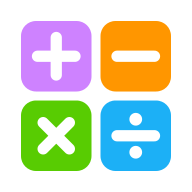
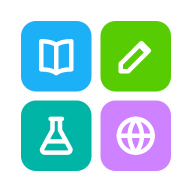
Estuda Criança: escolha da matéria, trilha padrão e fim da marca Tabuada
- Trilha mostra a matéria atual e o botão "Escolher matéria" (grade com progresso);
  a trilha padrão mistura todas as matérias
- Tabuadas saem do menu principal e viram atalho dentro de Matemática
- Desafios de todas as matérias primeiro; desafio de contas como parte de Matemática
- Nome, ícone, textos, relatório e backup passam a ser "Estuda Criança"; cache estuda-v1

diff --git a/js/app.js b/js/app.js
@@ -59,8 +59,8 @@ function topbar() {
 }
 
 function nav() {
-  const items = [['learn', 'home', 'Trilha'], ['table', 'book', 'Tabuada'], ['challenges', 'bolt', 'Desafios'], ['progress', 'chart', 'Progresso'], ['parents', 'lock', 'Pais']];
-  return `<nav class="nav"><div class="brand">Aprender Bia</div>${items.map(([id, ic, label]) => `<button class="${ui.tab === id ? 'on' : ''}" data-a="tab" data-v="${id}">${icon(ic, 26)}<span>${label}</span></button>`).join('')}</nav>`;
+  const items = [['learn', 'home', 'Trilha'], ['challenges', 'bolt', 'Desafios'], ['progress', 'chart', 'Progresso'], ['parents', 'lock', 'Pais']];
+  return `<nav class="nav"><div class="brand">Estuda Criança</div>${items.map(([id, ic, label]) => `<button class="${ui.tab === id || (id === 'learn' && ui.tab === 'table') ? 'on' : ''}" data-a="tab" data-v="${id}">${icon(ic, 26)}<span>${label}</span></button>`).join('')}</nav>`;
 }
 
 const TABS = { learn: renderLearn, table: renderTable, challenges: renderChallenges, progress: renderProgress, parents: renderParents };
@@ -72,24 +72,42 @@ function renderLearn() {
   const year = YEAR();
   const crs = C.course(year);
   if (!crs.subjects.some((s) => s.id === ui.subj)) ui.subj = 'all';
-  const chips = `<div class="subj-chips">
-    <button class="subj-chip c-green ${ui.subj === 'all' ? 'on' : ''}" data-a="subj" data-v="all">${icon('layers', 22)}<span>Tudo</span></button>
-    ${crs.subjects.map((s) => `<button class="subj-chip c-${s.color} ${ui.subj === s.id ? 'on' : ''}" data-a="subj" data-v="${s.id}">${subjGlyph(s, 22)}<span>${s.name}</span></button>`).join('')}
+  const cur = ui.subj === 'all' ? null : crs.subjects.find((s) => s.id === ui.subj);
+  const picker = `<div class="subj-current">
+    <span class="sic c-${cur ? cur.color : 'green'}">${cur ? subjGlyph(cur, 24) : icon('layers', 24)}</span>
+    <div class="grow"><small>Estudando agora · ${year}º ano</small><b>${cur ? cur.full : 'Trilha padrão'}</b></div>
+    <button class="btn white sm" data-a="pick-subj">Escolher matéria</button>
   </div>`;
-  if (ui.subj === 'all') {
+  if (!cur) {
     const done = crs.all.filter((n) => E.stars(n.id) >= 1).length;
-    return `${chips}
-      <div class="unit-banner c-green"><div><small>${year}º ano · Trilha completa</small><h2>Aprender de tudo</h2><p>Um passo de cada matéria, em sequência · ${done}/${crs.all.length} feitos</p></div><div class="big">${icon('layers', 44)}</div></div>
+    return `${picker}
+      <div class="unit-banner c-green"><div><small>${year}º ano · Trilha padrão</small><h2>Um pouco de cada matéria</h2><p>Um passo de cada matéria, em sequência · ${done}/${crs.all.length} feitos</p></div><div class="big">${icon('layers', 44)}</div></div>
       <div class="path">${pathNodes(year, crs.all, true)}</div>`;
   }
-  const subj = crs.subjects.find((s) => s.id === ui.subj);
-  const prog = C.subjectProgress(year, subj.id);
-  return `${chips}${subj.units.map((u, i) => `<section class="unit">
-      <div class="unit-banner c-${subj.color}"><div><small>${subj.full} · ${year}º ano · Unidade ${i + 1}</small><h2>${esc(u.title)}</h2>
-        <p>${i === 0 ? `${prog.done}/${prog.total} passos feitos` : `${u.nodes.length} passos`}</p></div><div class="big">${subjGlyph(subj, 40)}</div></div>
+  const prog = C.subjectProgress(year, cur.id);
+  const tools = cur.id === 'ma' ? `<button class="tool-card c-green" data-a="tab" data-v="table">${icon('book', 26)}<div class="grow"><b>Tabuadas</b><small>Ver, ouvir e aprender as tabuadas de somar, tirar, multiplicar e dividir</small></div>${icon('right', 22)}</button>` : '';
+  return `${picker}${tools}${cur.units.map((u, i) => `<section class="unit">
+      <div class="unit-banner c-${cur.color}"><div><small>${cur.full} · ${year}º ano · Unidade ${i + 1}</small><h2>${esc(u.title)}</h2>
+        <p>${i === 0 ? `${prog.done}/${prog.total} passos feitos` : `${u.nodes.length} passos`}</p></div><div class="big">${subjGlyph(cur, 40)}</div></div>
       <div class="path">${pathNodes(year, u.nodes, false)}</div>
     </section>`).join('')}
-    ${subj.authored ? '' : '<p class="muted center small">Este ano ainda usa as habilidades da BNCC para estudo. Perguntas novas serão adicionadas aos poucos.</p>'}`;
+    ${cur.authored ? '' : '<p class="muted center small">Este ano ainda usa as habilidades da BNCC para estudo. Perguntas novas serão adicionadas aos poucos.</p>'}`;
+}
+
+// Grade para escolher a matéria (ou a trilha padrão)
+function pickSubject() {
+  const year = YEAR();
+  const crs = C.course(year);
+  const all = crs.all;
+  const doneAll = all.filter((n) => E.stars(n.id) >= 1).length;
+  const tile = (id, color, glyph, name, sub) => `<button class="subj-tile c-${color} ${ui.subj === id ? 'on' : ''}" data-a="subj" data-v="${id}">
+    <span class="sic">${glyph}</span><b>${name}</b><small>${sub}</small></button>`;
+  showModal(`<h2>O que você quer estudar?</h2><p>${year}º ano</p>
+    <div class="subj-grid">
+      ${tile('all', 'green', icon('layers', 26), 'Trilha padrão', `Todas as matérias · ${doneAll}/${all.length}`)}
+      ${crs.subjects.map((sb) => { const p = C.subjectProgress(year, sb.id); return tile(sb.id, sb.color, subjGlyph(sb, 26), sb.full, `${p.done}/${p.total} passos`); }).join('')}
+    </div>
+    <button class="btn ghost" data-a="modal-close">Fechar</button>`);
 }
 
 function pathNodes(year, nodes, showSubj) {
@@ -171,7 +189,8 @@ function renderStudy(n) {
 // ---------- Aba Tabuada (livrinho com as 9 tabuadas) ----------
 function renderTable() {
   const op = ui.tableOp;
-  return `<h1 class="page-title">Tabuada</h1>
+  return `<button class="back-link" data-a="go-subj" data-v="ma">${icon('left', 20)} Matemática</button>
+  <h1 class="page-title">Tabuadas</h1>
   <div class="op-tabs">${OPS.map((o) => `<button class="op-tab c-${OP_COLOR[o]} ${o === op ? 'on' : ''}" data-a="table-op" data-v="${o}"><b>${OP_SHORT[o]}</b><span>${OP_TAB[o]}</span></button>`).join('')}</div>
   <div class="book c-${OP_COLOR[op]}">${[1, 2, 3, 4, 5, 6, 7, 8, 9].map((n) => `<button class="tcard" data-a="table-open" data-v="${n}">
     <h3>Tabuada do ${n}</h3>
@@ -369,7 +388,7 @@ function renderChallenges() {
   </div>`;
   return `<h1 class="page-title">Desafios</h1>
   <section class="builder c-${OP_COLOR[op]}">
-    <h2>Desafio da tabuada</h2>
+    <h2>Matemática · desafio de contas</h2>
     <div class="b-step"><span class="b-label">1. Operação</span>
       <div class="op-tabs small">${OPS.map((o) => `<button class="op-tab c-${OP_COLOR[o]} ${o === op ? 'on' : ''}" data-a="ch-op" data-v="${o}"><b>${OP_SHORT[o]}</b><span>${OP_TAB[o]}</span></button>`).join('')}</div></div>
     <div class="b-step"><span class="b-label">2. Qual tabuada?</span>
@@ -378,7 +397,7 @@ function renderChallenges() {
       <div class="modes">${CH_MODES.map(([m, ic, label, desc]) => `<button class="mode ${m === mode ? 'on' : ''}" data-a="ch-mode" data-v="${m}">${icon(ic, 24)}<b>${label}</b><small>${desc}</small></button>`).join('')}</div></div>
     <div class="b-go"><span class="rec">${recLabel}</span><button class="btn" data-a="ch" data-v="table">Começar · ${n === 'all' ? 'todas as tabuadas' : `tabuada do ${n}`} de ${OP_VERB[op]}</button></div>
   </section>
-  <h2 class="section-title">Outros desafios</h2>
+  <h2 class="section-title">Desafios de todas as matérias</h2>
   <div class="cards">
     ${card('daily', 'calendar', 'orange', 'Desafio do dia', '10 contas misturadas. Ganhe +20 XP.', dailyDone != null ? `Feito hoje: ${dailyDone}/10` : 'Novo desafio disponível', dailyDone != null ? 'Volte amanhã' : 'Jogar', dailyDone != null)}
     ${card('test', 'clipboard', 'purple', 'Teste de progresso', '2 contas de cada tabuada, sem ajuda. No final sai um boletim.', (() => { const t = s.tests.find((x) => x.op === ui.testOp); return t ? `Último: ${t.score}/${t.total}` : 'Ainda não fez'; })(), `Testar ${OP_NAME[ui.testOp].toLowerCase()}`, false,
@@ -671,7 +690,7 @@ function reportText() {
   const weak = E.weakFacts(6).map((w) => w.label);
   const tests = OPS.map((o) => s.tests.find((x) => x.op === o)).filter(Boolean);
   return [
-    `Relatório de ${s.profile.name} - Tabuada`,
+    `Relatório de ${s.profile.name} - Estuda Criança (${YEAR()}º ano)`,
     `Data: ${new Date().toLocaleDateString('pt-BR')}`,
     '',
     `Sequência: ${E.streak()} dia(s) seguidos (recorde ${s.best.streak})`,
@@ -1029,8 +1048,8 @@ function renderOnboarding() {
   $app.innerHTML = '';
   $ov.innerHTML = `<div class="screen"><div class="inner">
     <div class="onb">
-      <div class="logo">${['+', '−', '×', '÷'].map((o, i) => `<span class="c-${['purple', 'orange', 'green', 'blue'][i]}">${o}</span>`).join('')}</div>
-      <h1>Aprender Bia</h1>
+      <div class="logo">${[['blue', 'book'], ['green', 'pencil'], ['teal', 'flask'], ['purple', 'globe']].map(([c, ic]) => `<span class="c-${c}">${icon(ic, 30)}</span>`).join('')}</div>
+      <h1>Estuda Criança</h1>
       <p class="muted big-p">Estudos do ensino fundamental, com o que se aprende nas escolas de Joinville.</p>
       <label class="field"><span>Qual é o seu nome?</span>
         <input class="text-input" id="onbName" maxlength="20" placeholder="Seu nome" value="${esc(ui.onbName)}" autocomplete="off"></label>
@@ -1076,7 +1095,7 @@ function exportBackup() {
   const url = URL.createObjectURL(blob);
   const a = document.createElement('a');
   a.href = url;
-  a.download = `tabuada-backup-${(S().profile.name || 'crianca').toLowerCase().replace(/[^a-z0-9]+/gi, '-')}-${E.dayKey()}.json`;
+  a.download = `estuda-crianca-backup-${(S().profile.name || 'crianca').toLowerCase().replace(/[^a-z0-9]+/gi, '-')}-${E.dayKey()}.json`;
   document.body.appendChild(a);
   a.click();
   a.remove();
@@ -1107,7 +1126,8 @@ document.addEventListener('click', (ev) => {
     case 'study-walk': { const n = studyNode; startWalk(n.gen.op, n.gen.n, () => lessonGo(n.id)); break; }
     case 'check-mark': checkMark(Number(v)); break;
     case 'go-subj': ui.tab = 'learn'; ui.subj = v; ui.pop = null; sfx.tap(); render(); scrollTo(0, 0); break;
-    case 'subj': ui.subj = v; ui.pop = null; sfx.tap(); render(); scrollTo(0, 0); break;
+    case 'subj': ui.subj = v; ui.pop = null; closeModal(); sfx.tap(); render(); scrollTo(0, 0); break;
+    case 'pick-subj': pickSubject(); break;
     case 'study-close': closeOverlay(); break;
     case 'table-op': ui.tableOp = v; sfx.tap(); render(); break;
     case 'table-open': openTable(Number(v)); break;
@@ -1161,7 +1181,7 @@ document.addEventListener('click', (ev) => {
     case 'goal': S().settings.goal = Number(v); E.save(); render(); break;
     case 'toggle': S().settings[v] = !S().settings[v]; E.save(); render(); break;
     case 'share': shareReport(); break;
-    case 'share-native': navigator.share({ title: 'Relatório da Tabuada', text: reportText() }).catch(() => {}); break;
+    case 'share-native': navigator.share({ title: 'Relatório - Estuda Criança', text: reportText() }).catch(() => {}); break;
     case 'share-copy': navigator.clipboard?.writeText(reportText()).then(() => toast('Relatório copiado'), () => toast('Não foi possível copiar')); break;
     case 'export': exportBackup(); break;
     case 'import': document.getElementById('importFile').click(); break;

diff --git a/css/style.css b/css/style.css
@@ -646,3 +646,22 @@ pre.conta { margin: 0; font-family: ui-monospace, 'Courier New', monospace; font
   .report-doc { padding: 0; }
   .report-doc .table tr { break-inside: avoid; }
 }
+
+/* ---------- Escolha da matéria ---------- */
+.subj-current { display: flex; align-items: center; gap: 12px; border: 2px solid var(--line); border-bottom-width: 4px; border-radius: 16px; padding: 10px 12px; margin-bottom: 18px; }
+.subj-current small { display: block; color: var(--muted); font-size: 12px; text-transform: uppercase; letter-spacing: .5px; }
+.subj-current b { display: block; font-size: 18px; }
+.subj-current .btn { flex: none; }
+.subj-grid { display: grid; grid-template-columns: repeat(2, minmax(0, 1fr)); gap: 10px; }
+.subj-tile { display: flex; flex-direction: column; align-items: center; gap: 4px; padding: 14px 8px; border: 2px solid var(--line); border-bottom-width: 4px; border-radius: 16px; text-align: center; background: #fff; }
+.subj-tile b { font-size: 15px; color: var(--text); }
+.subj-tile small { font-size: 12px; color: var(--muted); }
+.subj-tile .sic { width: 48px; height: 48px; border-radius: 14px; }
+.subj-tile.on { border-color: var(--c); background: var(--l); }
+.subj-tile:active { transform: translateY(2px); border-bottom-width: 2px; }
+.tool-card { width: 100%; display: flex; align-items: center; gap: 12px; padding: 12px 14px; border-radius: 16px; border: 2px solid var(--line); border-bottom-width: 4px; text-align: left; color: var(--c); margin-bottom: 18px; background: #fff; }
+.tool-card b { display: block; color: var(--text); font-size: 16px; }
+.tool-card small { display: block; color: var(--muted); font-size: 13px; }
+.back-link { display: inline-flex; align-items: center; gap: 4px; color: var(--blue-d); font-size: 15px; padding: 4px 0; margin-bottom: 4px; }
+@media (min-width: 700px) { .subj-grid { grid-template-columns: repeat(3, minmax(0, 1fr)); } }
+@media (max-width: 380px) { .subj-current .btn { padding: 8px 10px; font-size: 12px; } }

diff --git a/index.html b/index.html
@@ -3,14 +3,14 @@
 <head>
   <meta charset="utf-8">
   <meta name="viewport" content="width=device-width, initial-scale=1, viewport-fit=cover">
-  <title>Aprender Bia</title>
+  <title>Estuda Criança</title>
   <meta name="description" content="Estudos do ensino fundamental (1º ao 9º ano) com base na BNCC e na rede de Joinville.">
   <meta name="theme-color" content="#58cc02">
   <meta name="color-scheme" content="light">
   <meta name="mobile-web-app-capable" content="yes">
   <meta name="apple-mobile-web-app-capable" content="yes">
   <meta name="apple-mobile-web-app-status-bar-style" content="default">
-  <meta name="apple-mobile-web-app-title" content="Aprender Bia">
+  <meta name="apple-mobile-web-app-title" content="Estuda Criança">
   <link rel="manifest" href="./manifest.webmanifest">
   <link rel="icon" href="./icons/icon.svg" type="image/svg+xml">
   <link rel="apple-touch-icon" href="./icons/apple-touch-icon.png">

diff --git a/sw.js b/sw.js
@@ -1,6 +1,6 @@
 // Service worker: deixa o app 100% offline.
 // IMPORTANTE: ao alterar qualquer arquivo do app, aumente a versão abaixo.
-const CACHE = 'aprender-v1';
+const CACHE = 'estuda-v1';
 const ASSETS = [
   './',
   './index.html',

diff --git a/README.md b/README.md
@@ -1,4 +1,4 @@
-# Aprender Bia
+# Estuda Criança
 
 App de estudos (PWA) para o **ensino fundamental, do 1º ao 9º ano**, com base na **BNCC** e no que é ensinado
 na rede de **Joinville (SC)**. Visual inspirado no Duolingo. Funciona no celular, tablet e computador, e **offline**
@@ -10,16 +10,17 @@ Site: https://lucasramos-developer.github.io/estuda-crianca/
 
 - No primeiro acesso, a criança informa o nome e **o ano escolar**. A trilha é montada para esse ano
   (dá para trocar depois em *Pais → Configurações*).
-- **Trilha "Tudo"**: um passo de cada matéria, em sequência. **Trilha por matéria**: Português, Matemática,
-  Ciências, História, Geografia, Arte, Educação Física, Inglês e Ensino Religioso. O progresso é o mesmo nas duas.
+- **Trilha padrão**: um passo de cada matéria, em sequência. Pelo botão **Escolher matéria** a criança estuda uma
+  matéria só: Português, Matemática, Ciências, História, Geografia, Arte, Educação Física, Inglês ou Ensino Religioso.
+  O progresso é o mesmo nas duas.
 - Cada passo mostra uma **explicação curta** e depois **perguntas**. Cada passo tem 3 níveis (estrelas).
 - **3º ano**: conteúdo completo escrito para todas as matérias, ligado aos códigos da BNCC,
   com História e Geografia de Joinville e Inglês dos anos iniciais (rede municipal).
 - **Outros anos**: os passos usam as habilidades da BNCC para estudo e auto-avaliação ("Ainda estou aprendendo" /
   "Já sei"), mais treino de contas na Matemática dos anos iniciais. Perguntas escritas serão adicionadas aos poucos.
-- **Tabuada**: as tabuadas de somar, tirar, multiplicar e dividir para ver, ouvir e aprender conta por conta.
-- **Desafios**: desafio da tabuada (perguntas, 1 minuto, 3 vidas), desafio do dia, teste de progresso (boletim),
-  revisão surpresa de todas as matérias e treino dos erros.
+- **Matemática → Tabuadas**: as tabuadas de somar, tirar, multiplicar e dividir para ver, ouvir e aprender conta por conta.
+- **Desafios**: desafio do dia, revisão surpresa de todas as matérias, teste de progresso (boletim), treino dos erros
+  e desafio de contas de Matemática (perguntas, 1 minuto, 3 vidas).
 - **Pais** (com PIN criado no primeiro acesso): progresso por matéria, situação de cada habilidade da BNCC,
   relatório para **imprimir / salvar em PDF**, relatório em texto (WhatsApp), **backup em JSON** e configurações.
 
@@ -37,7 +38,7 @@ Pela rede local (http) o modo offline e o "instalar" não funcionam; no GitHub P
 ## Publicar
 
 Push na `main` → o GitHub Pages publica sozinho. **Ao mudar qualquer arquivo, aumente a versão do cache** em `sw.js`
-(`aprender-v1` → `aprender-v2`), senão os aparelhos continuam com a versão antiga.
+(`estuda-v1` → `estuda-v2`), senão os aparelhos continuam com a versão antiga.
 
 ## Estrutura
 
